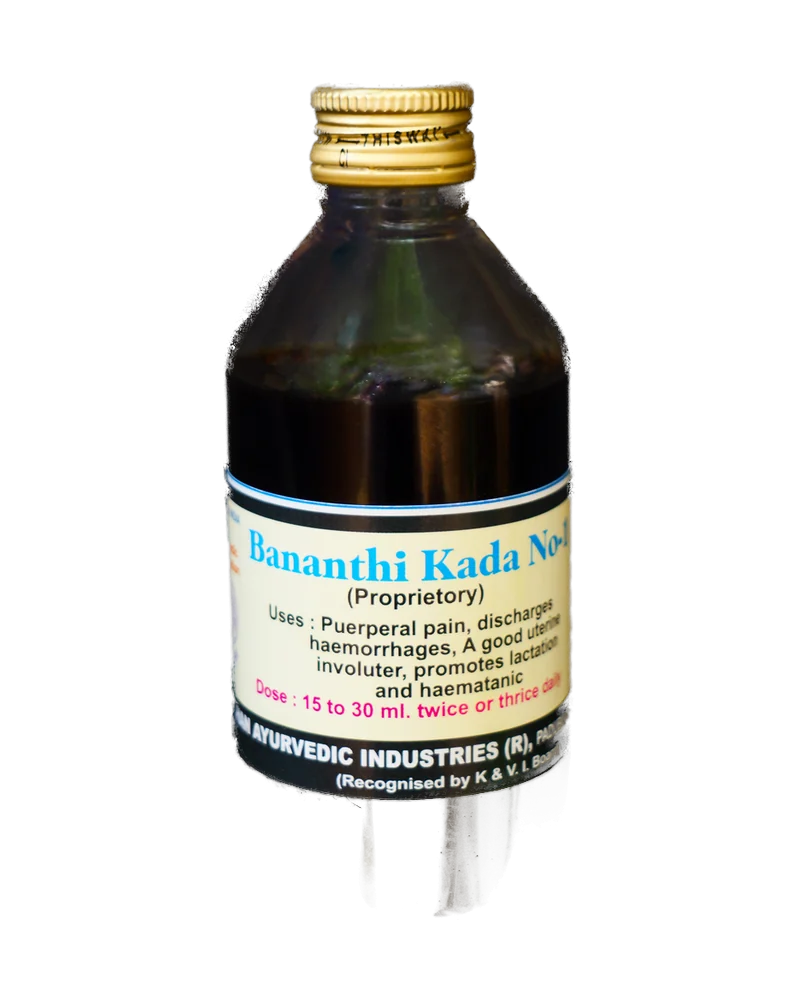
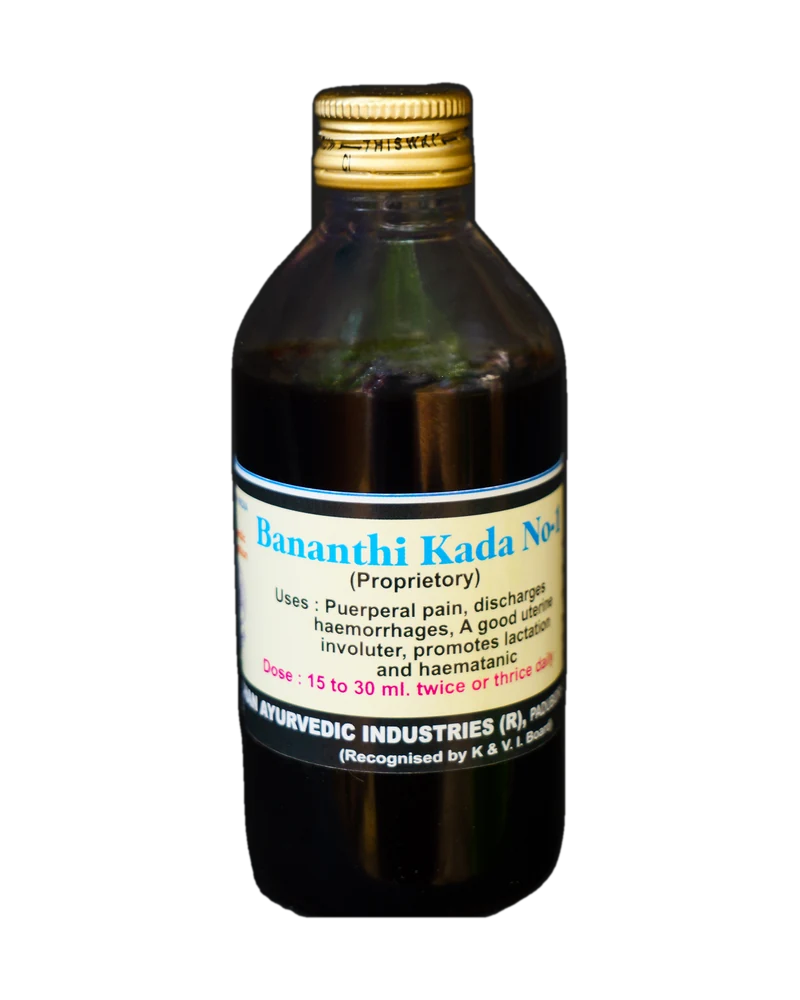
Use real product photos for Aloe Vera Gel and Kumari Shampoo
Also includes re-cut more-products images (Bananthi Kada,
Dashamularishta, Jambvasava).

diff --git a/src/components/Product/Product.jsx b/src/components/Product/Product.jsx
@@ -15,8 +15,8 @@ import rumovinImage from "../../images/liniment.jpeg";
 import chyawanprashImage from "../../images/chyavanprash.jpeg";
 import pustiImage from "../../images/pusti.jpeg";
 import bhringamalakadiImage from "../../images/oil.jpeg";
-import aloeVeraGelImage from "../../images/alovera gel.png";
-import kumariImage from "../../images/Kumari.png";
+import aloeVeraGelImage from "../../images/aloe-gel.webp";
+import kumariImage from "../../images/kumari-shampoo.webp";
 import balagrahaImage from "../../images/balagruha.jpg";
 import bananthiImage from "../../images/bananthi.jpg";
 import gandhakaImage from "../../images/Gandhaka.jpg";
